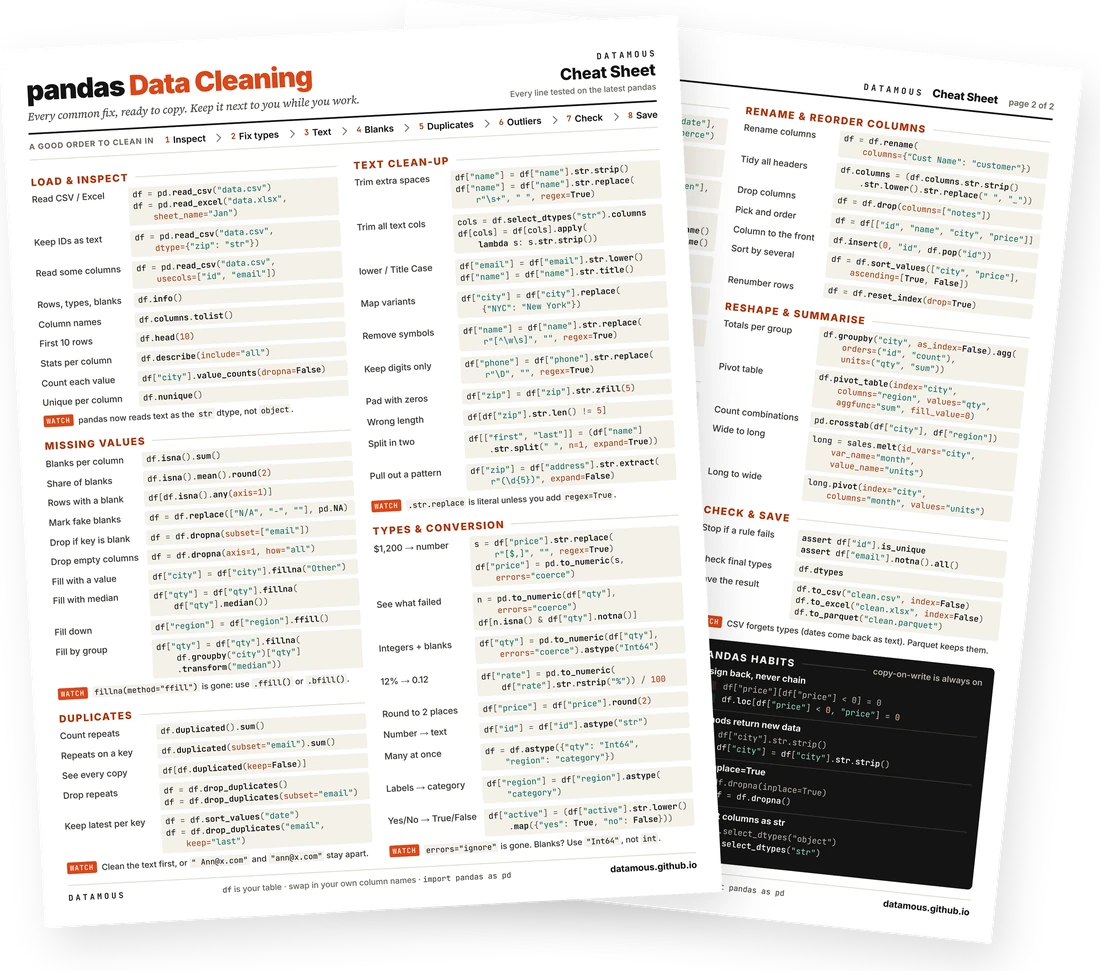
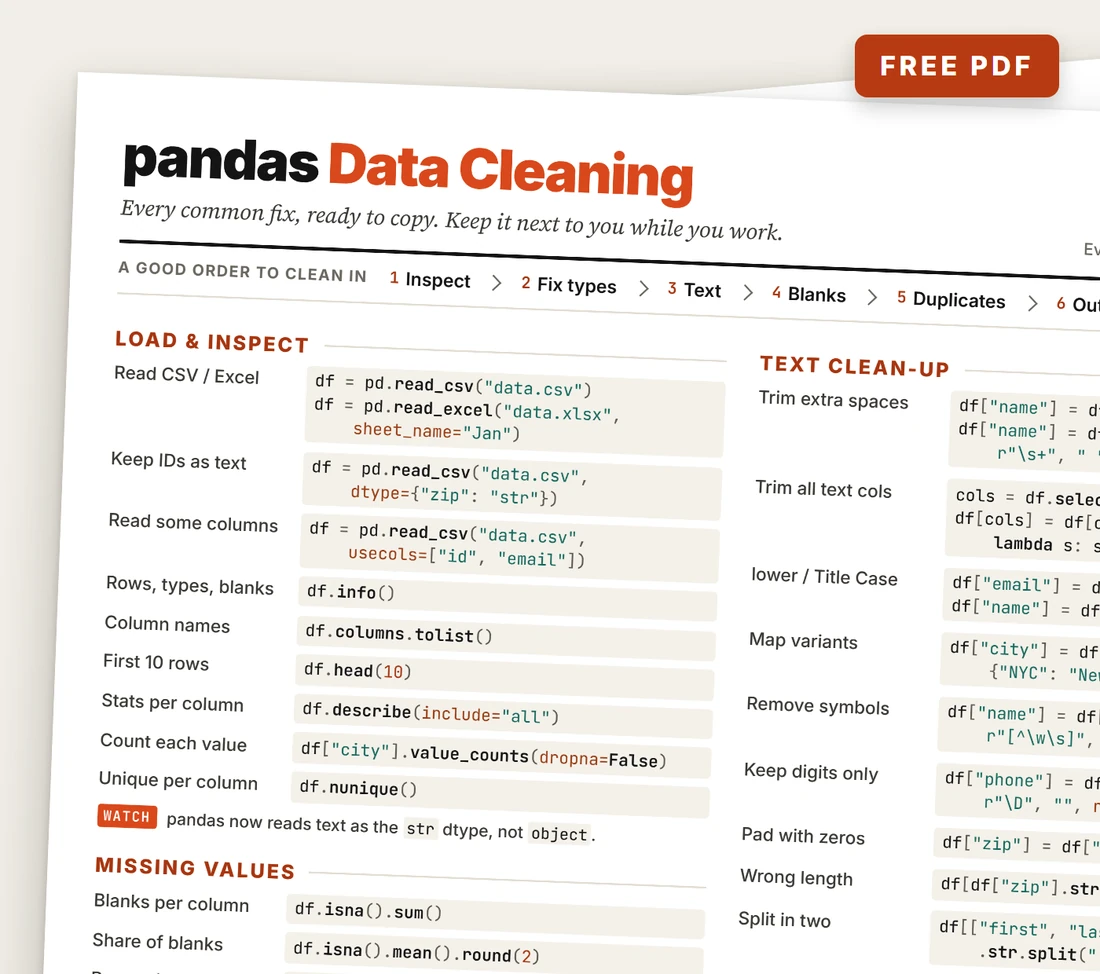
feat: close-up product shot on all pages

Changed region(s): [[0.0, 0.0, 1.0, 1.0], [0.9891, 0.4016, 1.0, 0.4634]]

diff --git a/style.css b/style.css
@@ -23,7 +23,7 @@ h1 span{color:var(--accent);white-space:nowrap}
 .how{font-size:15px;color:var(--muted);margin:14px 0 0;max-width:32em}
 .how a{color:var(--muted)}
 .reader{font-size:15px;margin:10px 0 0;color:var(--ink)}
-.hero picture img{width:100%;height:auto;display:block}
+.hero picture img{width:100%;height:auto;display:block;border-radius:16px}
 
 section{padding:60px 0;border-top:1px solid var(--line)}
 h2{font:800 32px/1.15 "Inter",sans-serif;letter-spacing:-.02em;margin:0 0 8px}
@@ -70,7 +70,7 @@ input,button{font:inherit;caret-color:var(--accent)}
 .lp-hero{display:grid;grid-template-columns:1fr 1.05fr;gap:48px;align-items:center;padding:36px 0 72px}
 .lp-hero h1{font-size:clamp(38px,5vw,58px)}
 .lp-copy .lead{max-width:30em}
-.lp-art img{width:100%;height:auto;display:block}
+.lp-art img{width:100%;height:auto;display:block;border-radius:16px}
 
 .signup{margin-top:30px;max-width:520px}
 .signup label{display:block;font-weight:700;font-size:16px;margin-bottom:10px}

diff --git a/cheatsheet/thanks/index.html b/cheatsheet/thanks/index.html
@@ -32,7 +32,7 @@
   </div>
   <picture class="lp-art">
     <source media="(max-width:760px)" srcset="/cheatsheet/mockup-720.webp">
-    <img src="/cheatsheet/mockup.webp" alt="Both pages of the pandas Data Cleaning Cheat Sheet, fanned out" width="1200" height="1060" fetchpriority="high">
+    <img src="/cheatsheet/mockup.webp" alt="The pandas Data Cleaning Cheat Sheet, close up, with a FREE PDF tag" width="1400" height="1240" fetchpriority="high">
   </picture>
 </div>
 

diff --git a/index.html b/index.html
@@ -35,7 +35,7 @@
   </div>
   <picture>
     <source media="(max-width:760px)" srcset="cheatsheet-preview-600.webp">
-    <img src="cheatsheet-preview.webp" alt="Both pages of the pandas Data Cleaning Cheat Sheet" width="1600" height="1412" fetchpriority="high">
+    <img src="cheatsheet-preview.webp" alt="The pandas Data Cleaning Cheat Sheet, close up, with a FREE PDF tag" width="1400" height="1240" fetchpriority="high">
   </picture>
 </div>
 

diff --git a/cheatsheet/index.html b/cheatsheet/index.html
@@ -51,7 +51,7 @@
   </div>
   <picture class="lp-art">
     <source media="(max-width:760px)" srcset="mockup-720.webp">
-    <img src="mockup.webp" alt="Both pages of the pandas Data Cleaning Cheat Sheet, fanned out" width="1200" height="1060" fetchpriority="high">
+    <img src="mockup.webp" alt="The pandas Data Cleaning Cheat Sheet, close up, with a FREE PDF tag" width="1400" height="1240" fetchpriority="high">
   </picture>
 </div>
 
